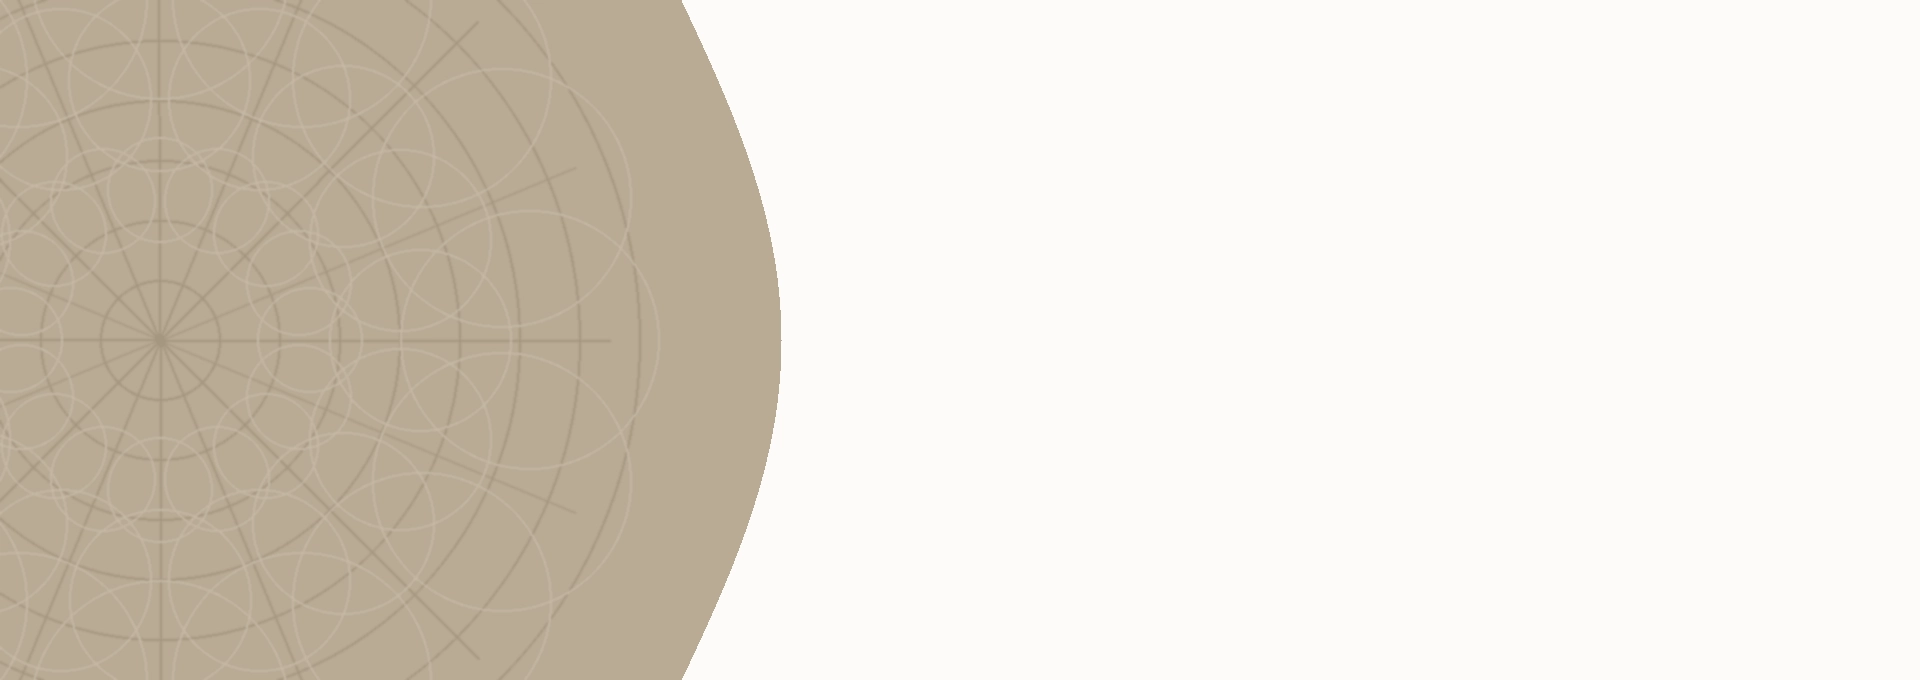
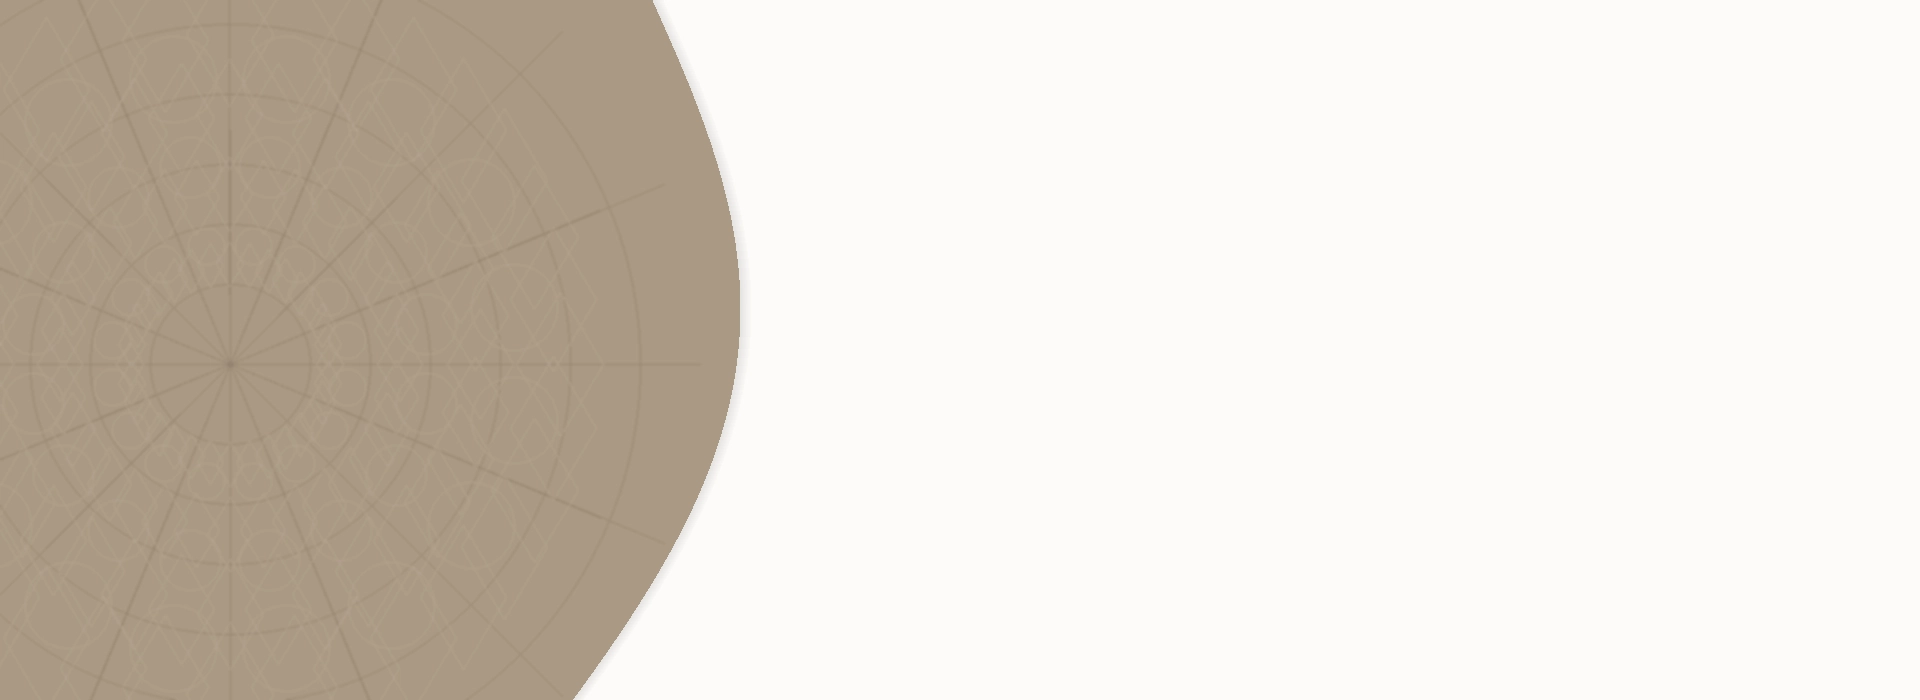
Fix left panel color to match exact reference khaki tone RGB(170,153,132) and add gold bismillah

diff --git a/components/sections/hero.tsx b/components/sections/hero.tsx
@@ -22,7 +22,7 @@ export default function HeroSection({ dict, lang = "en" }: HeroSectionProps) {
   };
 
   return (
-    <section className="relative w-full min-h-[580px] lg:min-h-[620px] bg-[#FCFBF8] border-b border-[#EAE3D6] overflow-hidden flex items-center">
+    <section className="relative w-full min-h-[520px] lg:min-h-[600px] bg-[#FCFBF8] border-b border-[#EAE3D6] overflow-hidden flex items-center">
       {/* Background Banner Image with Left Mandala Curve */}
       <div className="absolute inset-0 z-0 pointer-events-none select-none">
         <Image
@@ -38,27 +38,27 @@ export default function HeroSection({ dict, lang = "en" }: HeroSectionProps) {
         <div className="absolute inset-0 bg-[#FCFBF8]/85 sm:bg-[#FCFBF8]/50 lg:bg-transparent" />
       </div>
 
-      <div className="relative z-10 w-full max-w-[1400px] mx-auto px-5 sm:px-8 md:px-12 lg:px-16 py-12 lg:py-16">
+      <div className="relative z-10 w-full max-w-[1400px] mx-auto px-5 sm:px-8 md:px-12 lg:px-16 py-10 lg:py-14">
         <div className="grid lg:grid-cols-12 items-center">
           {/* Left spacer for the curved Islamic mandala artwork */}
           <div className="hidden lg:block lg:col-span-4 xl:col-span-4" />
 
-          {/* Right Content Column */}
-          <div className="lg:col-span-8 xl:col-span-8 text-center flex flex-col items-center justify-center lg:pl-8 xl:pl-12">
-            {/* Bismillah Calligraphy */}
+          {/* Right Content Column — centered text */}
+          <div className="lg:col-span-8 xl:col-span-8 text-center flex flex-col items-center justify-center">
+            {/* Bismillah Calligraphy — GOLD & PROMINENT */}
             <motion.div
               initial={{ opacity: 0, y: -12 }}
               animate={{ opacity: 1, y: 0 }}
               transition={{ duration: 0.6 }}
-              className="mb-4 sm:mb-6"
+              className="mb-5 sm:mb-7"
             >
-              <div className="relative w-[240px] sm:w-[300px] md:w-[340px] h-10 sm:h-12">
+              <div className="relative w-[260px] sm:w-[320px] md:w-[380px] lg:w-[420px] h-10 sm:h-12 lg:h-14">
                 <Image
-                  src="/images/bismillah.png"
+                  src="/images/bismillah-gold.png"
                   alt="Bismillah ir-Rahman ir-Rahim"
                   fill
                   priority
-                  className="object-contain object-center filter drop-shadow-sm opacity-90"
+                  className="object-contain object-center"
                 />
               </div>
             </motion.div>
@@ -68,15 +68,17 @@ export default function HeroSection({ dict, lang = "en" }: HeroSectionProps) {
               initial={{ opacity: 0, y: 15 }}
               animate={{ opacity: 1, y: 0 }}
               transition={{ duration: 0.65, delay: 0.1 }}
-              className="text-3xl sm:text-4xl md:text-5xl lg:text-[46px] xl:text-[50px] font-serif font-bold text-[#2D1C13] leading-[1.16] tracking-tight mb-3 sm:mb-4 max-w-2xl"
+              className="text-3xl sm:text-4xl md:text-[42px] lg:text-[46px] xl:text-[50px] font-serif font-bold text-[#2D1C13] leading-[1.14] tracking-tight mb-3 sm:mb-4 max-w-2xl"
             >
               {isEn ? (
                 <>
-                  Online Quran classes specially <br className="hidden sm:inline" />
+                  Online Quran classes specially{" "}
+                  <br className="hidden sm:inline" />
                   designed for all ages
                 </>
               ) : (
-                hero.mainTitle || "Cours de Coran en ligne conçus pour tous les âges"
+                hero.mainTitle ||
+                "Cours de Coran en ligne conçus pour tous les âges"
               )}
             </motion.h1>
 
@@ -85,27 +87,28 @@ export default function HeroSection({ dict, lang = "en" }: HeroSectionProps) {
               initial={{ opacity: 0, y: 15 }}
               animate={{ opacity: 1, y: 0 }}
               transition={{ duration: 0.65, delay: 0.2 }}
-              className="text-base sm:text-lg md:text-xl font-sans font-medium text-[#5C4A3E] mb-7 sm:mb-9"
+              className="text-sm sm:text-base md:text-lg font-sans font-medium text-[#5C4A3E] mb-7 sm:mb-8"
             >
               {isEn
                 ? "Flexible, affordable online classes for every age"
-                : hero.subtitle || "Des cours particuliers en direct, flexibles et abordables"}
+                : hero.subtitle ||
+                  "Des cours particuliers en direct, flexibles et abordables"}
             </motion.p>
 
-            {/* Action Buttons */}
+            {/* Action Buttons — matching reference exactly */}
             <motion.div
               initial={{ opacity: 0, y: 15 }}
               animate={{ opacity: 1, y: 0 }}
               transition={{ duration: 0.65, delay: 0.3 }}
-              className="flex flex-col sm:flex-row items-center justify-center gap-4 sm:gap-6 mb-10 w-full sm:w-auto"
+              className="flex flex-col sm:flex-row items-center justify-center gap-4 sm:gap-5 mb-10 w-full sm:w-auto"
             >
               <Link
                 href={`/${lang}/admissions`}
-                className="w-full sm:w-auto min-w-[210px] text-center px-8 py-3.5 sm:py-4 rounded-full bg-[#BA9955] hover:bg-[#A88744] text-white font-extrabold text-xs sm:text-sm tracking-wider uppercase transition-all duration-300 shadow-[0_6px_20px_rgba(186,153,85,0.35)] hover:shadow-[0_8px_25px_rgba(186,153,85,0.5)] hover:-translate-y-0.5 active:translate-y-0"
+                className="w-full sm:w-auto min-w-[210px] text-center px-8 py-3.5 sm:py-4 rounded-full bg-[#BA9955] hover:bg-[#A88744] text-white font-extrabold text-xs sm:text-[13px] tracking-wider uppercase transition-all duration-300 shadow-[0_6px_20px_rgba(186,153,85,0.35)] hover:shadow-[0_8px_25px_rgba(186,153,85,0.5)] hover:-translate-y-0.5 active:translate-y-0"
               >
                 {isEn ? (
                   <>
-                    START YOUR FREE <br className="hidden sm:inline" /> 3 DAYS TRIAL
+                    START YOUR FREE <br className="sm:inline" /> 3 DAYS TRIAL
                   </>
                 ) : (
                   "COMMENCER L'ESSAI GRATUIT DE 3 JOURS"
@@ -113,7 +116,7 @@ export default function HeroSection({ dict, lang = "en" }: HeroSectionProps) {
               </Link>
               <Link
                 href={`/${lang}/contact`}
-                className="w-full sm:w-auto min-w-[170px] text-center px-8 py-3.5 sm:py-4 rounded-full bg-white hover:bg-[#FAF7F2] text-[#9F7A38] border border-[#C5A059] font-bold text-sm sm:text-base transition-all duration-300 shadow-sm hover:shadow hover:-translate-y-0.5"
+                className="w-full sm:w-auto min-w-[170px] text-center px-8 py-3.5 sm:py-4 rounded-full bg-white hover:bg-[#FAF7F2] text-[#2D1C13] border-2 border-[#D4C9B4] font-bold text-sm sm:text-base transition-all duration-300 shadow-sm hover:shadow hover:-translate-y-0.5"
               >
                 {hero.contactUs || "Contact Us"}
               </Link>
@@ -130,7 +133,9 @@ export default function HeroSection({ dict, lang = "en" }: HeroSectionProps) {
                 <Star className="w-5 h-5 text-[#C5A059]" />
                 <div className="text-left">
                   <p className="leading-tight font-bold">Rated 4.9/5</p>
-                  <p className="text-[11px] text-[#7A685B] font-medium">by Families</p>
+                  <p className="text-[11px] text-[#7A685B] font-medium">
+                    by Families
+                  </p>
                 </div>
               </div>
 
@@ -140,7 +145,9 @@ export default function HeroSection({ dict, lang = "en" }: HeroSectionProps) {
                 <BookOpen className="w-5 h-5 text-[#C5A059]" />
                 <div className="text-left">
                   <p className="leading-tight font-bold">1-on-1 Dedicated</p>
-                  <p className="text-[11px] text-[#7A685B] font-medium">Classes</p>
+                  <p className="text-[11px] text-[#7A685B] font-medium">
+                    Classes
+                  </p>
                 </div>
               </div>
 
@@ -150,11 +157,12 @@ export default function HeroSection({ dict, lang = "en" }: HeroSectionProps) {
                 <Clock className="w-5 h-5 text-[#C5A059]" />
                 <div className="text-left">
                   <p className="leading-tight font-bold">24/7 Global</p>
-                  <p className="text-[11px] text-[#7A685B] font-medium">Flexible Slots</p>
+                  <p className="text-[11px] text-[#7A685B] font-medium">
+                    Flexible Slots
+                  </p>
                 </div>
               </div>
             </motion.div>
-
           </div>
         </div>
       </div>
